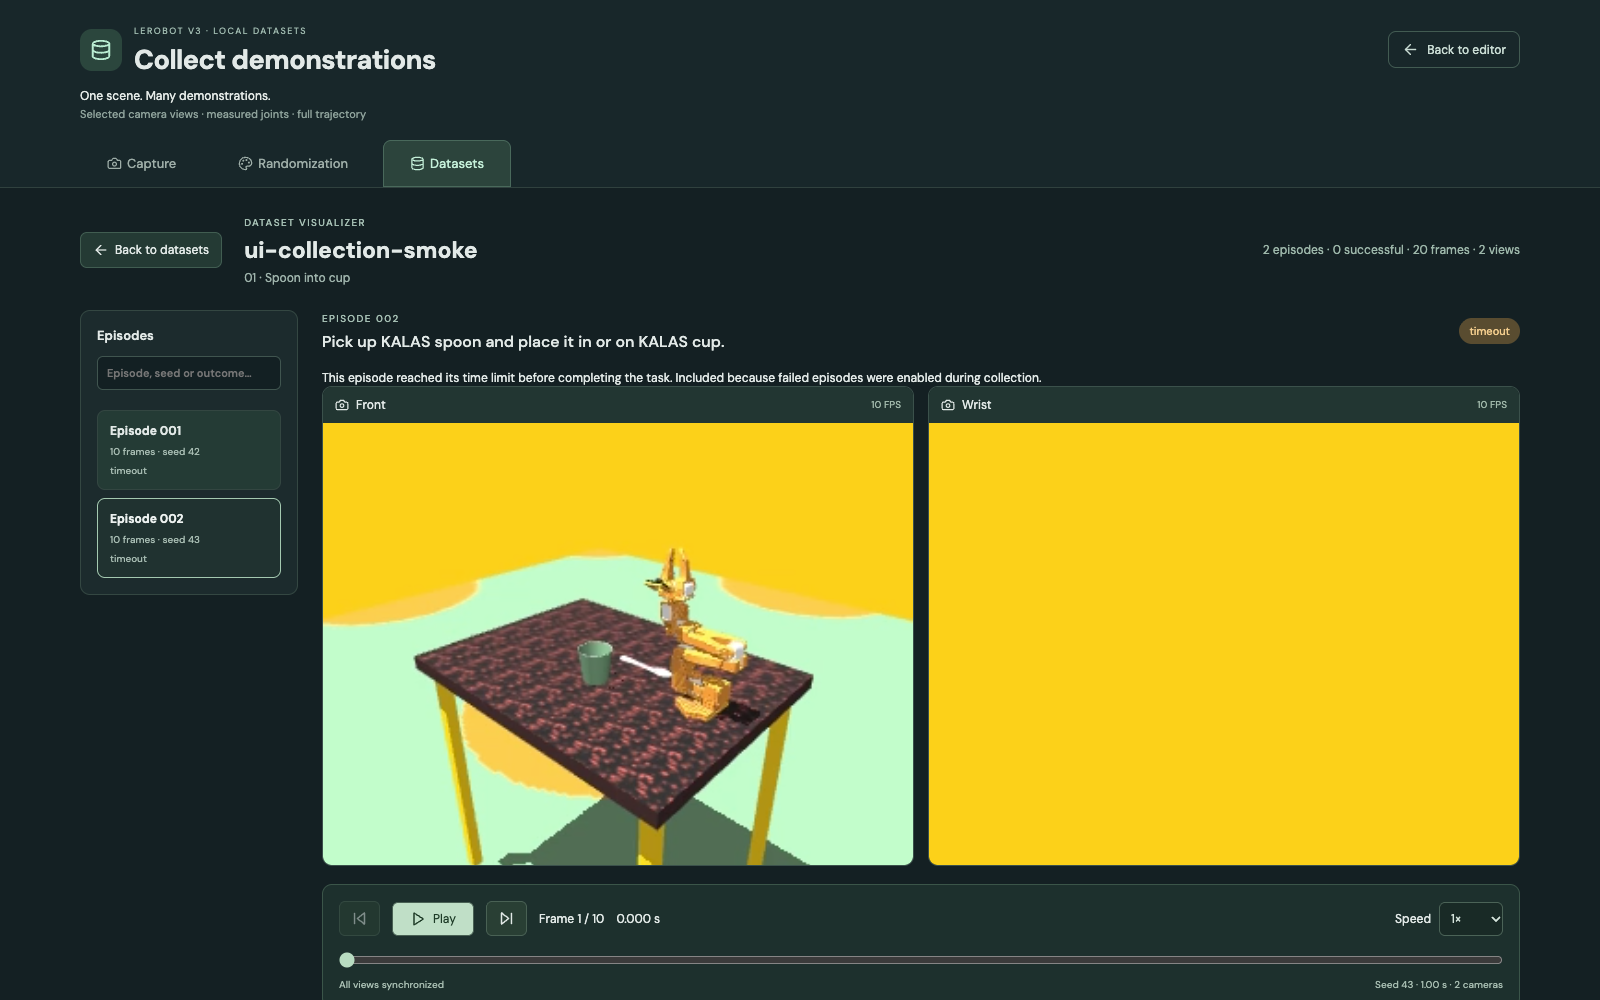
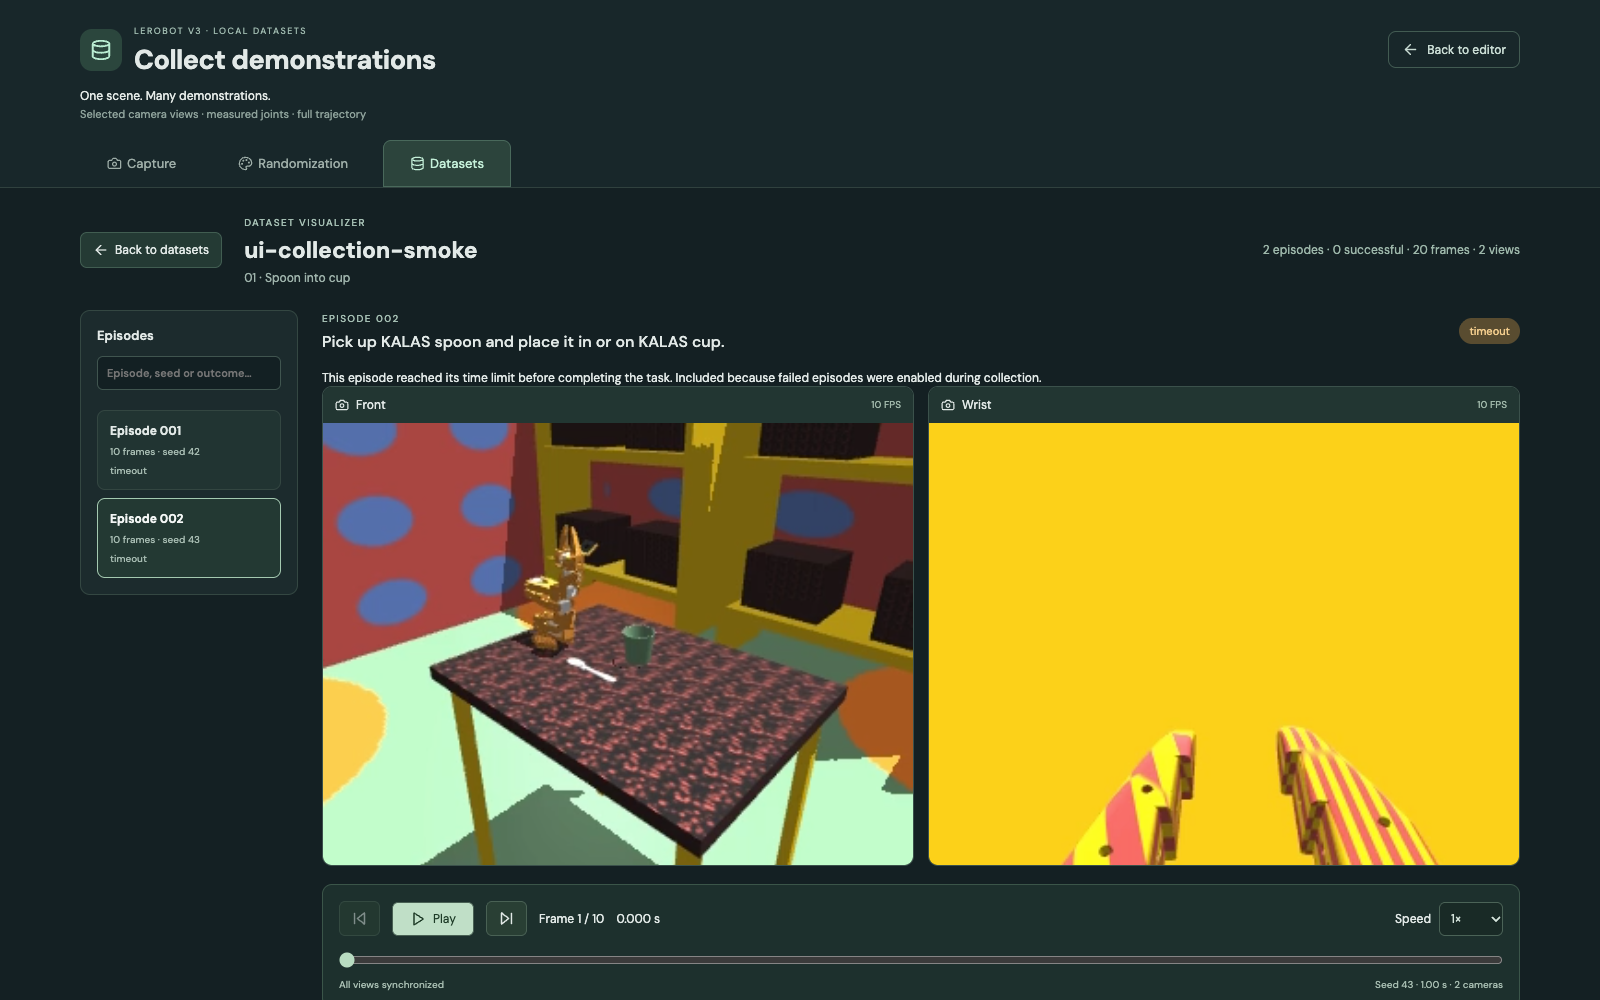
fix: align recorded camera poses and projection with editor

Changed region(s): [[0.1875, 0.403, 0.5938, 0.868], [0.7812, 0.713, 0.9062, 0.868], [0.6562, 0.713, 0.75, 0.868]]

diff --git a/frontend/src/App.tsx b/frontend/src/App.tsx
@@ -104,6 +104,7 @@ export default function App() {
   const [apiHelp, setApiHelp] = useState(false);
   const [appearanceOpen, setAppearanceOpen] = useState(false);
   const [collectionOpen, setCollectionOpen] = useState(false);
+  const [collectionTopHeight, setCollectionTopHeight] = useState(480);
   const closeCollection = useCallback(() => setCollectionOpen(false), []);
   const closeAppearance = useCallback(() => setAppearanceOpen(false), []);
   const [selected, setSelected] = useState<string | null>(null);
@@ -559,8 +560,16 @@ export default function App() {
             disabled={!sim.snapshot}
             aria-label="Collect data"
             onClick={() => {
-              setCollectionOpen(true);
-              setAppearanceOpen(false);
+              const canvas = document.querySelector<HTMLCanvasElement>(
+                '[data-testid="viewport-top"] canvas',
+              );
+              const height = canvas?.getBoundingClientRect().height;
+              setCollectionTopHeight(height && height >= 1 ? height : 480);
+              void safe(async () => {
+                await sim.waitForPending();
+                setCollectionOpen(true);
+                setAppearanceOpen(false);
+              });
             }}
           >
             <Database size={16} />
@@ -979,6 +988,7 @@ export default function App() {
       )}
       {collectionOpen && scene && sim.snapshot && (
         <CollectionPanel
+          topReferenceHeight={collectionTopHeight}
           scene={scene}
           sessionId={sim.snapshot.sessionId}
           editable={editable}

diff --git a/frontend/src/CollectionPanel.tsx b/frontend/src/CollectionPanel.tsx
@@ -149,12 +149,19 @@ function PaletteRule({
   );
 }
 interface Props {
+  topReferenceHeight: number;
   scene: Scene;
   sessionId: string;
   editable: boolean;
   close: () => void;
 }
-export function CollectionPanel({ scene, sessionId, editable, close }: Props) {
+export function CollectionPanel({
+  scene,
+  sessionId,
+  editable,
+  close,
+  topReferenceHeight,
+}: Props) {
   const [config, setConfig] = useState<CollectionConfig | null>(null);
   const [scenes, setScenes] = useState<CollectionScene[]>([]);
   const [sceneFilter, setSceneFilter] = useState("");
@@ -217,6 +224,7 @@ export function CollectionPanel({ scene, sessionId, editable, close }: Props) {
       .then(responseJSON)
       .then((data) => {
         const defaults = data.defaults as CollectionConfig;
+        defaults.top_reference_height = topReferenceHeight;
         defaults.cameras ??= ["main", "top", "front", "back", "wrist"];
         defaults.variation.position_mode ??= "workspace";
         defaults.duration_mode ??= "auto";

diff --git a/frontend/e2e/collection.spec.ts b/frontend/e2e/collection.spec.ts
@@ -19,6 +19,11 @@ test("collect constrained multi-camera data and download a verified LeRobot data
   });
   try {
     await page.goto(`/?session=${sid}`);
+    const topCanvas = page.getByTestId("viewport-top").locator("canvas");
+    await expect(topCanvas).toBeVisible();
+    const topReferenceHeight = await topCanvas.evaluate(
+      (canvas) => canvas.getBoundingClientRect().height,
+    );
     await page
       .getByRole("button", { name: "Collect data", exact: true })
       .click();
@@ -171,6 +176,9 @@ test("collect constrained multi-camera data and download a verified LeRobot data
       .click();
     const jobResponse = await started;
     expect(jobResponse.ok()).toBeTruthy();
+    expect(
+      jobResponse.request().postDataJSON().top_reference_height,
+    ).toBeCloseTo(topReferenceHeight, 3);
     const job = await jobResponse.json();
     ownedJob = job.id;
     const card = page.getByTestId(`collection-job-${job.id}`);

diff --git a/frontend/src/DatasetViewer.tsx b/frontend/src/DatasetViewer.tsx
@@ -22,6 +22,7 @@ interface Episode {
   videos: Record<string, VideoSource>;
 }
 interface Index {
+  camera_projection_version?: number;
   name: string;
   scene_name: string;
   task: string;
@@ -531,6 +532,13 @@ export function DatasetViewer({
       {error && (
         <p role="alert" className="look-error">
           {error}
+        </p>
+      )}
+      {index && (index.camera_projection_version ?? 1) < 2 && (
+        <p className="look-error">
+          Recorded before the camera alignment fix. These saved videos may show
+          different angles from the editor; collect a new dataset to use the
+          corrected cameras.
         </p>
       )}
       {!index && !error && <p role="status">Reading episode metadata…</p>}

diff --git a/frontend/src/collectionTypes.ts b/frontend/src/collectionTypes.ts
@@ -28,6 +28,7 @@ export interface CollectionScene {
   instruction: string;
 }
 export interface CollectionConfig {
+  top_reference_height: number;
   cameras: string[];
   scene_id: string | null;
   name: string;

diff --git a/backend/tests/test_camera_alignment.py b/backend/tests/test_camera_alignment.py
@@ -1,0 +1,83 @@
+import math
+import mujoco
+import numpy as np
+import pytest
+from backend.simulation import Simulation
+from backend.render import camera_for_view
+
+
+def native_camera(sim, view, **kwargs):
+    camera = camera_for_view(sim, view, **kwargs)
+    if isinstance(camera, str):
+        name = camera
+        camera = mujoco.MjvCamera()
+        camera.type = mujoco.mjtCamera.mjCAMERA_FIXED
+        camera.fixedcamid = sim.model.camera(name).id
+    scene = mujoco.MjvScene(sim.model, maxgeom=10000)
+    mujoco.mjv_updateScene(
+        sim.model,
+        sim.data,
+        mujoco.MjvOption(),
+        None,
+        camera,
+        mujoco.mjtCatBit.mjCAT_ALL,
+        scene,
+    )
+    return mujoco.mjv_averageCamera(scene.camera[0], scene.camera[1])
+
+
+@pytest.mark.parametrize("view", ["main", "front", "back"])
+@pytest.mark.parametrize("zoom", [0.7, 1, 2.5])
+def test_native_perspective_matches_editor_pose_and_projection(view, zoom):
+    sim = Simulation()
+    config = sim.scene.cameras[view]
+    config.zoom = zoom
+    config.target = [0.06, -0.03, 0.79]
+    actual = native_camera(sim, view)
+    np.testing.assert_allclose(actual.pos, config.position, atol=1e-6)
+    forward = np.array(config.target) - config.position
+    forward /= np.linalg.norm(forward)
+    right = np.cross(forward, [0, 0, 1])
+    right /= np.linalg.norm(right)
+    up = np.cross(right, forward)
+    np.testing.assert_allclose(actual.forward, forward, atol=1e-6)
+    np.testing.assert_allclose(actual.up, up, atol=1e-6)
+    assert actual.frustum_near == pytest.approx(0.005, rel=1e-6)
+    assert actual.frustum_far == pytest.approx(20, rel=1e-6)
+    assert not actual.orthographic
+    assert actual.frustum_top / actual.frustum_near == pytest.approx(
+        math.tan(math.radians(config.fov / 2)) / zoom, rel=1e-6
+    )
+
+
+@pytest.mark.parametrize("reference_height", [300, 480, 850])
+def test_top_is_true_orthographic_and_matches_editor_visible_height(reference_height):
+    sim = Simulation()
+    config = sim.scene.cameras["top"]
+    config.zoom = 507.735
+    actual = native_camera(sim, "top", top_reference_height=reference_height)
+    assert actual.orthographic
+    np.testing.assert_allclose(actual.pos, config.position, atol=1e-6)
+    np.testing.assert_allclose(actual.forward, [0, 0, -1], atol=1e-6)
+    np.testing.assert_allclose(actual.up, [1, 0, 0], atol=1e-6)
+    assert actual.frustum_top - actual.frustum_bottom == pytest.approx(
+        reference_height / config.zoom, rel=1e-6
+    )
+
+
+def test_top_does_not_leak_projection_into_wrist_or_main():
+    sim = Simulation()
+    native_camera(sim, "top")
+    wrist = native_camera(sim, "wrist")
+    assert not wrist.orthographic
+    assert wrist.frustum_top / wrist.frustum_near == pytest.approx(
+        math.tan(math.radians(61 / 2)), rel=1e-6
+    )
+    expected = sim.data.camera("wrist_cam")
+    np.testing.assert_allclose(wrist.pos, expected.xpos, atol=1e-6)
+    np.testing.assert_allclose(
+        wrist.forward, -expected.xmat.reshape(3, 3)[:, 2], atol=1e-6
+    )
+    main = native_camera(sim, "main")
+    assert not main.orthographic
+    np.testing.assert_allclose(main.pos, sim.scene.cameras["main"].position, atol=1e-6)

diff --git a/backend/render.py b/backend/render.py
@@ -21,7 +21,11 @@ def render(payload):
         return result.getvalue()
 
 
-def camera_for_view(sim, view):
+def camera_for_view(sim, view, top_reference_height=480):
+    # Match the editor's clipping and reset free-camera projection between views.
+    sim.model.vis.map.znear = 0.005 / sim.model.stat.extent
+    sim.model.vis.map.zfar = 20 / sim.model.stat.extent
+    sim.model.vis.global_.orthographic = int(view == "top")
     camera = "wrist_cam"
     if view != "wrist":
         config = sim.scene.cameras[view]
@@ -29,26 +33,28 @@ def camera_for_view(sim, view):
         camera = mujoco.MjvCamera()
         camera.type = mujoco.mjtCamera.mjCAMERA_FREE
         camera.lookat[:] = config.target
-        camera.distance = (
-            float(np.linalg.norm(delta)) / config.zoom if view != "top" else 1.5
-        )
-        camera.azimuth = math.degrees(math.atan2(delta[1], delta[0]))
+        camera.distance = float(np.linalg.norm(delta))
+        # MuJoCo azimuth describes the viewing direction, opposite the eye offset.
+        camera.azimuth = math.degrees(math.atan2(delta[1], delta[0])) + 180
         camera.elevation = -math.degrees(math.asin(delta[2] / np.linalg.norm(delta)))
-        sim.model.vis.global_.fovy = config.fov
+        sim.model.vis.global_.fovy = math.degrees(
+            2 * math.atan(math.tan(math.radians(config.fov / 2)) / config.zoom)
+        )
         if view == "top":
             camera.orthographic = 1
             camera.azimuth = 0
-            camera.distance = 480 / (
-                config.zoom * 2 * math.tan(math.radians(config.fov / 2))
-            )
+            # Orthographic fovy is a world-space height, not an angle. Three's
+            # Top frustum is measured in CSS pixels before division by zoom.
+            sim.model.vis.global_.fovy = top_reference_height / config.zoom
     return camera
 
 
 class CameraRenderer:
     """Persistent native renderer; all captures read the same physical state."""
 
-    def __init__(self, sim, width=640, height=480):
+    def __init__(self, sim, width=640, height=480, top_reference_height=480):
         self.sim = sim
+        self.top_reference_height = top_reference_height
         self.renderer = mujoco.Renderer(sim.model, height=height, width=width)
         self.option = mujoco.MjvOption()
         self.option.geomgroup[3:] = 0
@@ -57,7 +63,7 @@ class CameraRenderer:
     def capture(self, view):
         self.renderer.update_scene(
             self.sim.data,
-            camera=camera_for_view(self.sim, view),
+            camera=camera_for_view(self.sim, view, self.top_reference_height),
             scene_option=self.option,
         )
         return self.renderer.render().copy()

diff --git a/backend/collection_worker.py b/backend/collection_worker.py
@@ -71,6 +71,7 @@ def collect(job_dir):
     dataset = None
     manifest = {
         "generator": 2,
+        "camera_projection_version": 2,
         "scene_id": config.scene_id,
         "scene_name": source.name,
         "config": config.model_dump(),
@@ -209,7 +210,9 @@ def collect(job_dir):
                     os.replace(temporary, job_dir / "preview.jpg")
                     update(frames=frames, simulation_time=sim_time)
 
-            with CameraRenderer(sim, width, height) as renderer:
+            with CameraRenderer(
+                sim, width, height, config.top_reference_height
+            ) as renderer:
                 recorder = EpisodeRecorder(dataset, renderer, config, sample, cancelled)
                 while sim.running and sim.data.time < time_limit - 0.0000001:
                     sim.step(

diff --git a/backend/tests/test_collection_viewer.py b/backend/tests/test_collection_viewer.py
@@ -90,6 +90,7 @@ def test_real_subset_export_and_viewer_api(tmp_path, monkeypatch):
         assert response.status_code == 200, response.text
         index = response.json()
         assert index["cameras"] == ["front", "wrist"]
+        assert index["camera_projection_version"] == 2
         assert len(index["episodes"]) == 2
         assert index["episodes"][1]["seed"] == 43
         assert "path" not in index["episodes"][1]["videos"]["front"]

diff --git a/backend/collection_visualization.py b/backend/collection_visualization.py
@@ -74,6 +74,7 @@ def build_index(root):
         "task": manifest["config"]["task"],
         "fps": info["fps"],
         "cameras": cameras,
+        "camera_projection_version": manifest.get("camera_projection_version", 1),
         "joint_names": info["features"]["observation.state"]["names"],
         "episodes": sorted(episodes, key=lambda e: e["index"]),
     }

diff --git a/backend/collection_schema.py b/backend/collection_schema.py
@@ -75,6 +75,7 @@ class Variation(Strict):
 
 
 class CollectionConfig(Strict):
+    top_reference_height: float = Field(default=480, ge=1, le=16384)
     cameras: list[Literal["main", "top", "front", "back", "wrist"]] = Field(
         default_factory=lambda: list(VIEWS), min_length=1, max_length=5
     )

diff --git a/docs/VERIFICATION.md b/docs/VERIFICATION.md
@@ -169,3 +169,23 @@ New captures default to **Reachable workspace · wide variation** and **Automati
 ![Successful workspace dataset](screenshots/collection-workspace-datasets.png)
 
 ![Final synchronized frame of a completed demonstration](screenshots/collection-workspace-success.png)
+
+## Editor / dataset camera alignment (2026-10-29)
+
+The camera configuration was copied correctly, but native free-camera conversion used the wrong azimuth convention. The default Main eye `[1.05,-1.25,1.55]` actually rendered from `[-1.05,1.25,1.55]`; Front and Back had the same XY reflection about their look-at target. Perspective zoom also moved the eye, introducing parallax, and setting `MjvCamera.orthographic` alone left Top in perspective mode.
+
+The renderer now corrects azimuth by 180 degrees, preserves eye distance, converts zoom into effective vertical FOV and activates true orthographic projection through the model visualization settings. Top keeps +X up and takes its vertical world extent from the editor canvas CSS height divided by zoom. The reference height is captured when opening Collect (480 fallback for hidden Top/API) and persisted in collection config. Near/far clipping matches the editor. Wrist retains its mounted pose and does not inherit the preceding Top projection.
+
+- All **13 camera regressions failed before the fix**. They now verify native eye position, forward/up vectors, projection at three zoom levels, Top at three reference heights, and Top→Wrist→Main isolation. The native-image checks also pass.
+- **28 relevant backend tests passed** (51.47 s): alignment, native rendering, collection and viewer, including actual official LeRobot export/readback and projection-version provenance. **3 browser scenarios passed** (28.3 s): collection and camera controls. The collection request's Top reference height matches the visible canvas. **14 frontend unit tests**, TypeScript, production build, focused Python correctness lint and `git diff --check` passed. Existing bundle-size warning remains.
+- An isolated clone of the user's dataset source scene was rendered at 640×480 in both the actual browser viewport and native renderer. Images below were inspected: robot, spoon and cup occupy matching positions and view direction. Renderer lighting/material differences remain. The latest archived test dataset's decoded Front/Wrist first frames were also compared visually to native captures from their saved recipe; geometry aligns. Mean RGB differences were 4.34/2.65 out of 255 after lossy H.264 compression; exact pixel equality is not the camera contract.
+- New captures carry `camera_projection_version: 2`. Existing videos are preserved, including the user's five-episode dataset. The viewer explains that old recordings use pre-fix angles, even when their cached index lacks the new field. New collection is required to obtain corrected viewpoints; playback cannot reconstruct another camera angle.
+- Independent review found no substantive issues and independently passed all 13 alignment regressions. Four idle editor scenes were backed up before the local service update and restored scene documents matched exactly.
+
+Browser viewport:
+
+![Editor camera](screenshots/camera-alignment-editor-main.png)
+
+Native recording renderer, same setup:
+
+![Aligned native camera](screenshots/camera-alignment-native-main.png)
